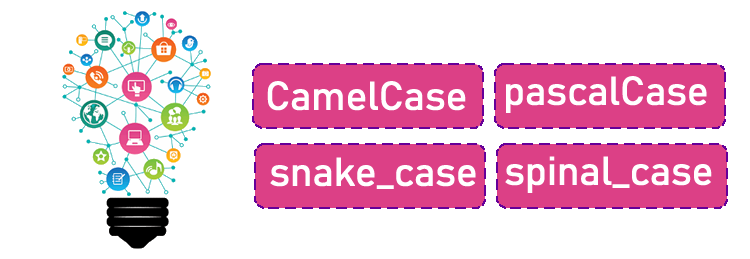
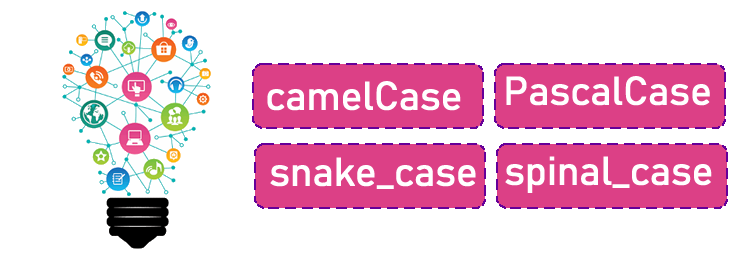
Ajuste

Changed region(s): [[0.3373, 0.3089, 0.644, 0.4324], [0.6747, 0.278, 0.9507, 0.4324]]

diff --git a/_posts/2011-11-24-snakecase.md b/_posts/2011-11-24-snakecase.md
@@ -19,12 +19,26 @@ Nosso <strong>objetivo</strong> aqui é mostrar uma solução para o <strong>Ent
 Basicamente existem 4 tipos de nomenclaturas que usamos para escrever nossos códigos: <strong>PascalCase, CamelCase, SnakeCase e SpinalCase</strong>, já que iremos abordar um assunto que se trata de um dos casos citados, nada mais justo do que resumir cada um deles.
 </div>
 ![01]({{site.url}}{{site.baseurl}}/assets/images/tipocase.png)
+
+## CamelCase
+
 <div style="text-align: justify;">
-Isso mesmo, com a facilidade de criarmos extensões para ele, o mesmo tornou-se um dos maiores aliados para desenvolvedores de software, eu ultimamente tenho utilizado bastante o VSCode!<br><br>
-Certo e por que o artigo?!<br>
-Pois bem... eu venho trabalhando em alguns projetos usando o <strong>PostgreSQL</strong> como banco de dados, eu acredito que a iniciativa do PGAdmin é simplesmente maravilhosa, mas infelizmente as vezes dá umas travadas do nada, além do consumo absurdo de memória, mas não estou aqui pra falar sobre isso.<br>
+Com Camel Case, a primeira letra da primeira palavra no identificador é 
+minúscula, e todas as palavras subsequentes usam maiúsculas e minúsculas:<br />
+<strong>Exemplo:</strong>
+```csharp
+blogRafael = "www.ralms.net";
+```
+</div>
 <br>
-Então estava procurando uma alternativa leve e clean, já que utilizo o PGAdmin apenas para fazer consultas e testes, então um "dia desses" meu amigo <strong>Carlos Santos</strong> estava fazendo uma demonstração de como fazer consultas para SQL Server no <strong>VSCODE</strong>, achei incrível a extensão criada pela Microsoft, nem sempre precisamos extrair todo poder que o <strong>SQL Server Management</strong> nos oferece, corri atrás de uma solução alternativa para fazer minhas consultas para PostgreSQL diretamente na IDE do VSCODE, e para minha maior surpresa existe uma extensão magnifica, rápida e muito leve, fiquei tão feliz que resolvi mostrar aqui nesse post como instalar, sim claro para aqueles que não conhece ela ainda!
+## PascalCase
+
+<div style="text-align: justify;">
+Com Pascal Case, a primeira letra de cada palavra no identificador é maiúscula, o restante em minúsculas e mesclada sem espaço<br />
+<strong>Exemplo:</strong>
+```csharp
+BlogRafael = "www.ralms.net";
+```
 </div>
 <br>
 <div class="notice--warning"> 
